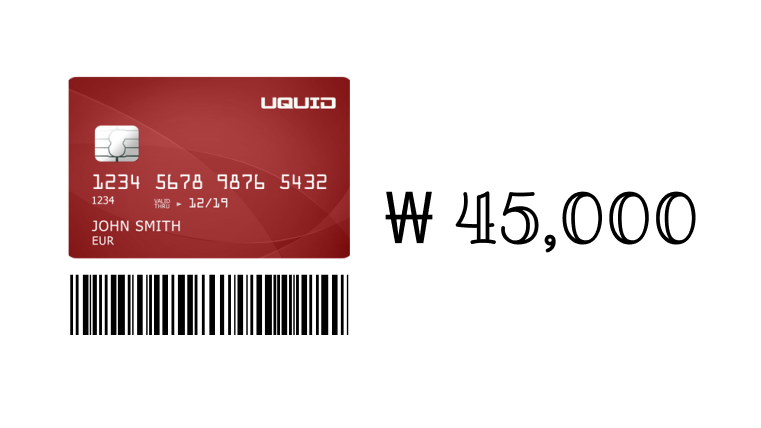
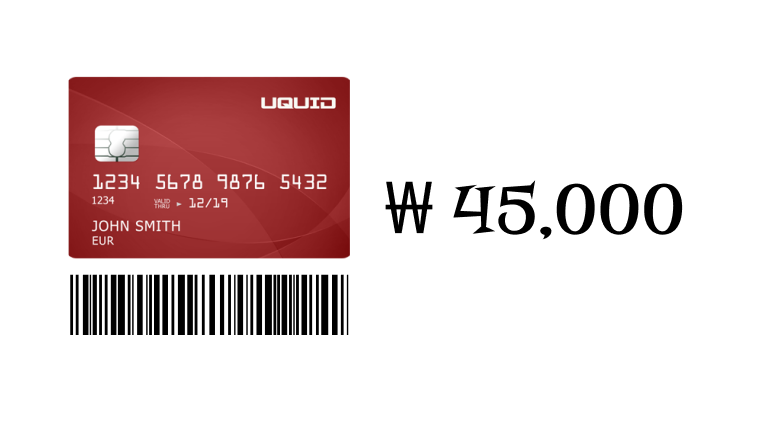
pic

Changed region(s): [[0.4836, 0.4252, 0.9369, 0.5771]]

diff --git a/pages/main.js b/pages/main.js
@@ -24,6 +24,8 @@ const Main = () => {
 	let rainImageElement = rainImageRef.current;
 	const carImageRef = React.useRef();
 	let carImageElement = carImageRef.current;
+	const receiptImageRef = React.useRef();
+	let receiptImageElement = receiptImageRef.current;
 	const [videoLoop, setVideoLoop] = useState(false);
 	const [recording, setRecording] = useState(false);
 	const [videoUrl, setVideoUrl] = useState("");
@@ -191,7 +193,7 @@ const Main = () => {
 			audioElement?.pause();
 		}
 
-		if (video === "./gas_1.webm" || video === "./leave_1.webm" || video === "./weather_1.webm") {
+		if (video === "./gas_1.webm" || video === "./leave_1.webm" || video === "./weather_1.webm" || video === "./gas_3.webm") {
 			setMoveAI(false);
 			const deviceWidth = window.innerWidth > 0 ? window.innerWidth : screen.width;
 			videoElement = videoRef.current;
@@ -204,6 +206,9 @@ const Main = () => {
 			} else if (video === "./gas_1.webm") {
 				carImageElement = carImageRef.current;
 				carImageElement.style.display = "block";
+			} else if (video === "./gas_3.webm") {
+				receiptImageElement = receiptImageRef.current;
+				receiptImageElement.style.display = "block";
 			}
 		} else {
 			setMoveAI(true);
@@ -239,6 +244,8 @@ const Main = () => {
 		rainImageElement.style.display = "none";
 		carImageElement = carImageRef.current;
 		carImageElement.style.display = "none";
+		receiptImageElement = receiptImageRef.current;
+		receiptImageElement.style.display = "none";
 		if (scenario.event === "leave" && scenario.depth === 1) {
 			/// do motion
 			setVideoOpacity(0);
@@ -442,6 +449,14 @@ const Main = () => {
 				heigh={"40%"}
 				zIndex={100}
 				ref={carImageRef}
+			/>
+			<img
+				src={"/45000.png"}
+				style={{ position: "fixed", left: "20vw", top: "30vh", display: "none" }}
+				width={"40%"}
+				heigh={"40%"}
+				zIndex={100}
+				ref={receiptImageRef}
 			/>
 		</div>
 	);
